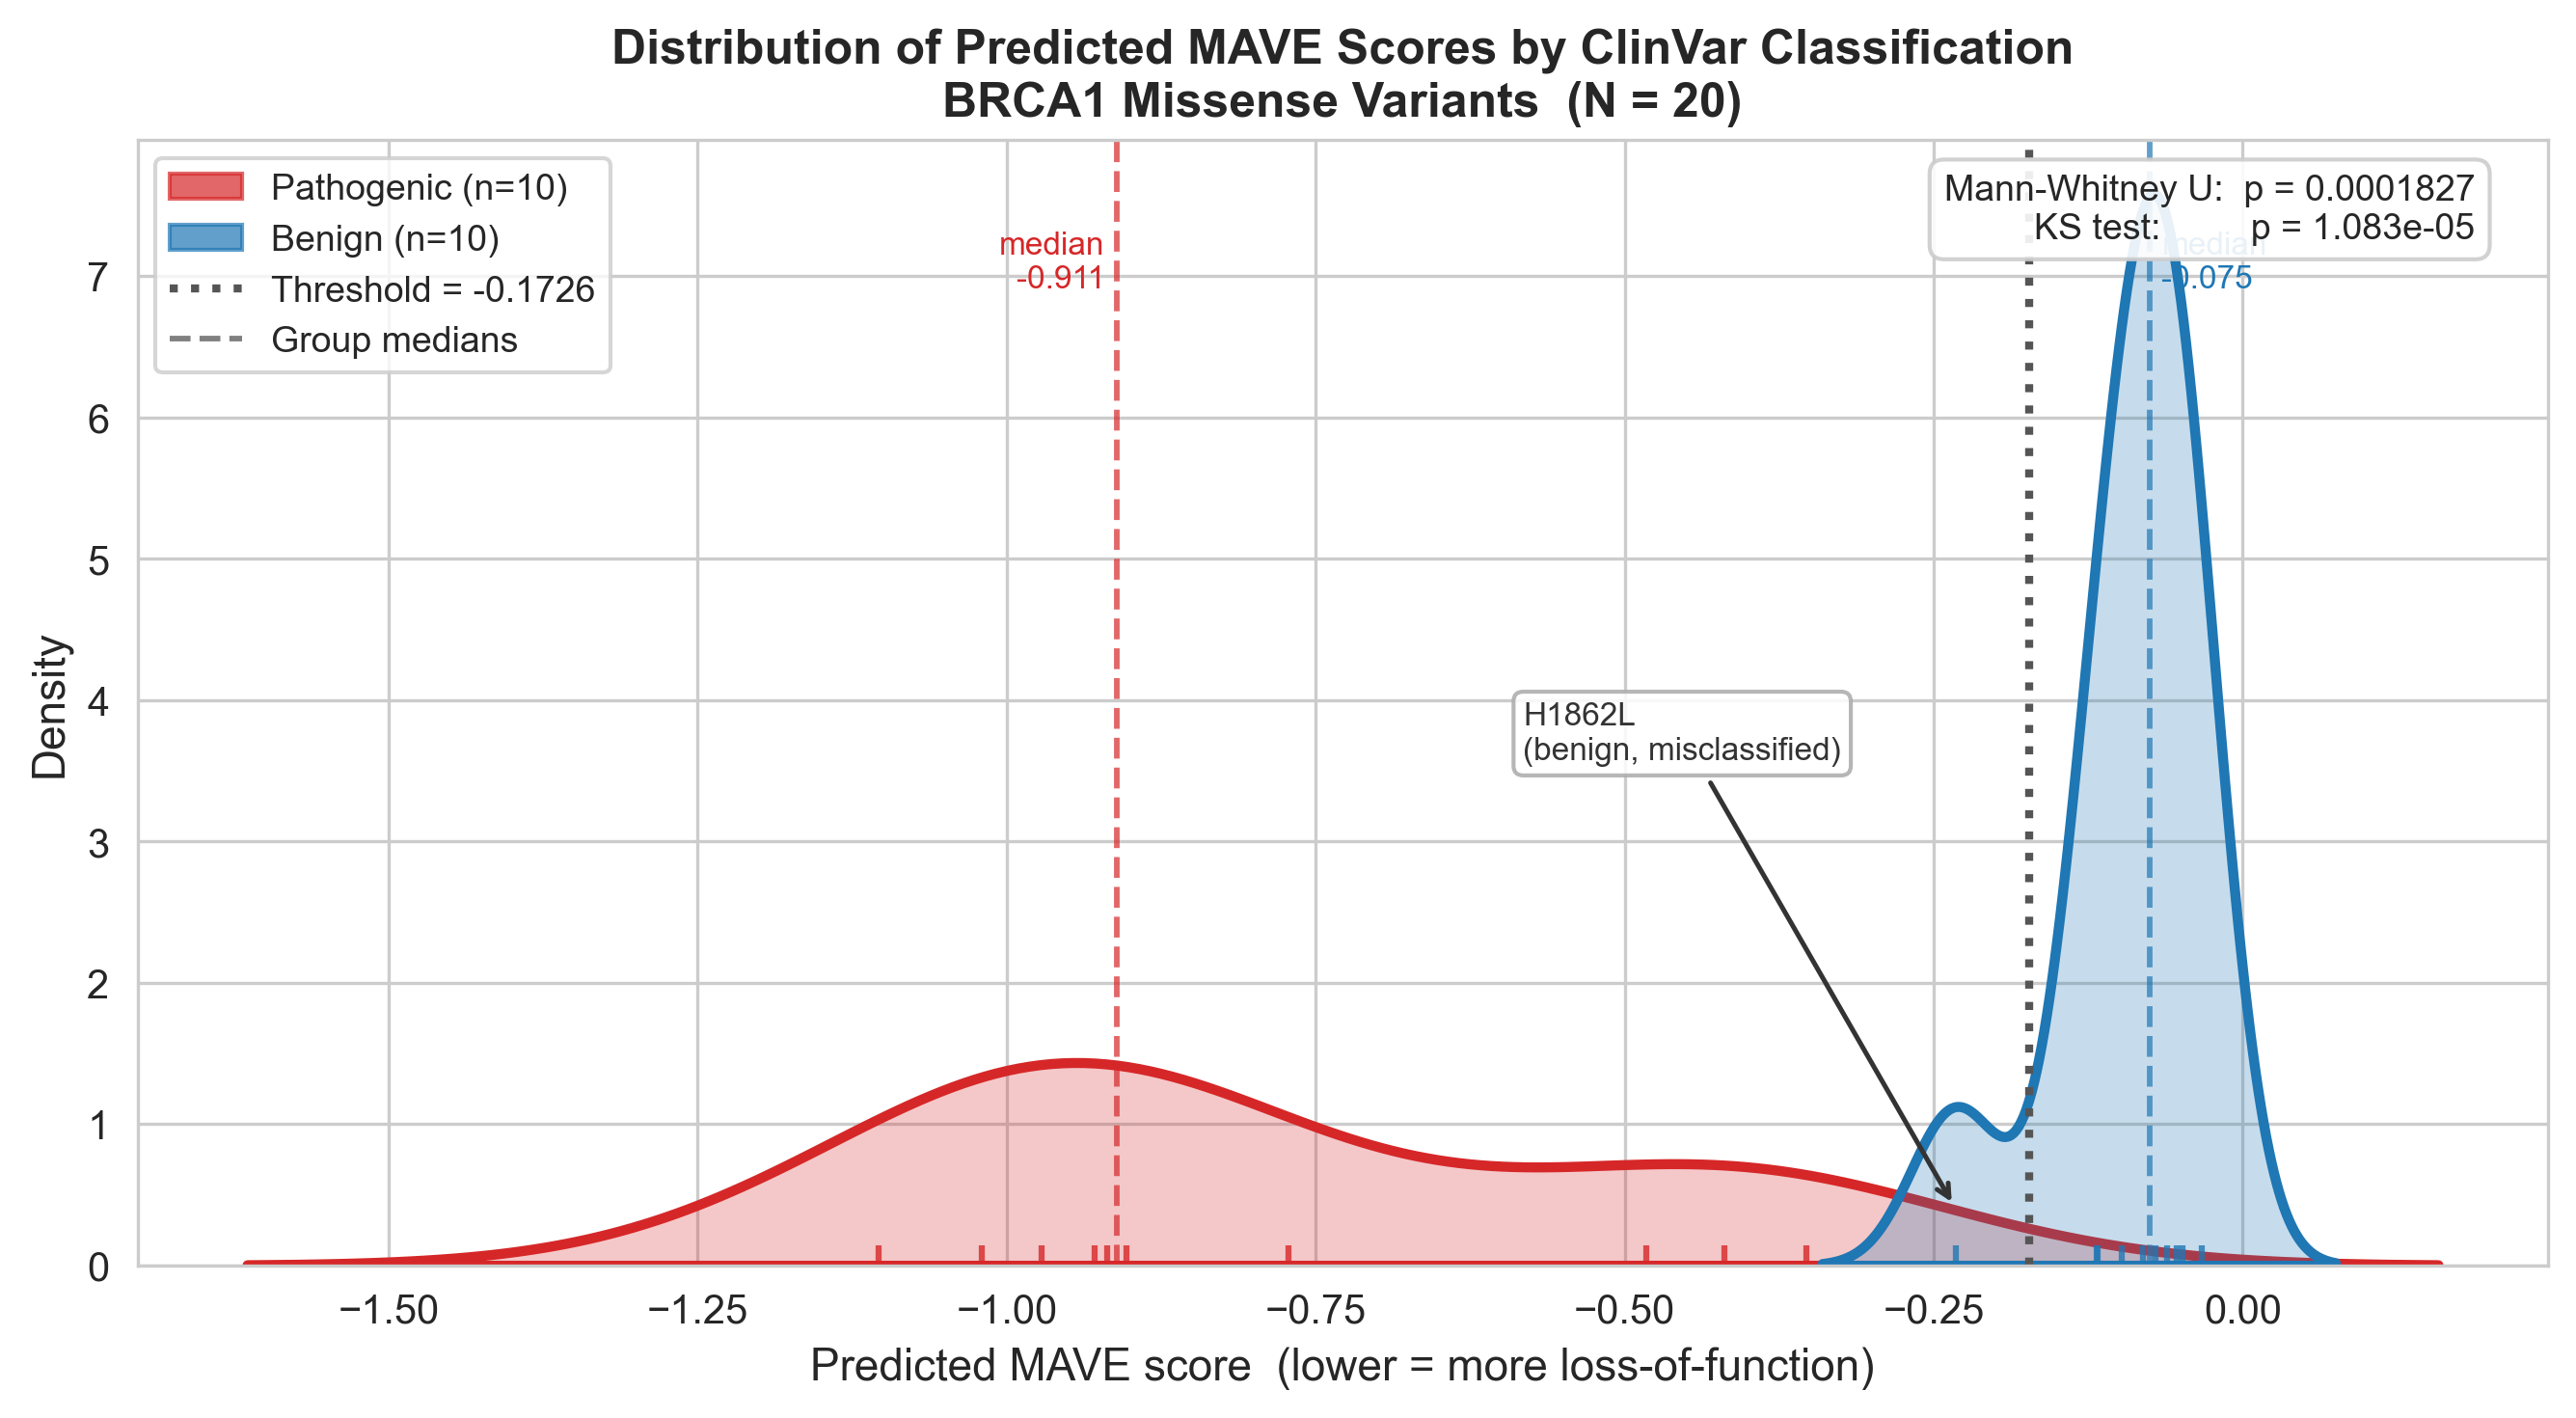
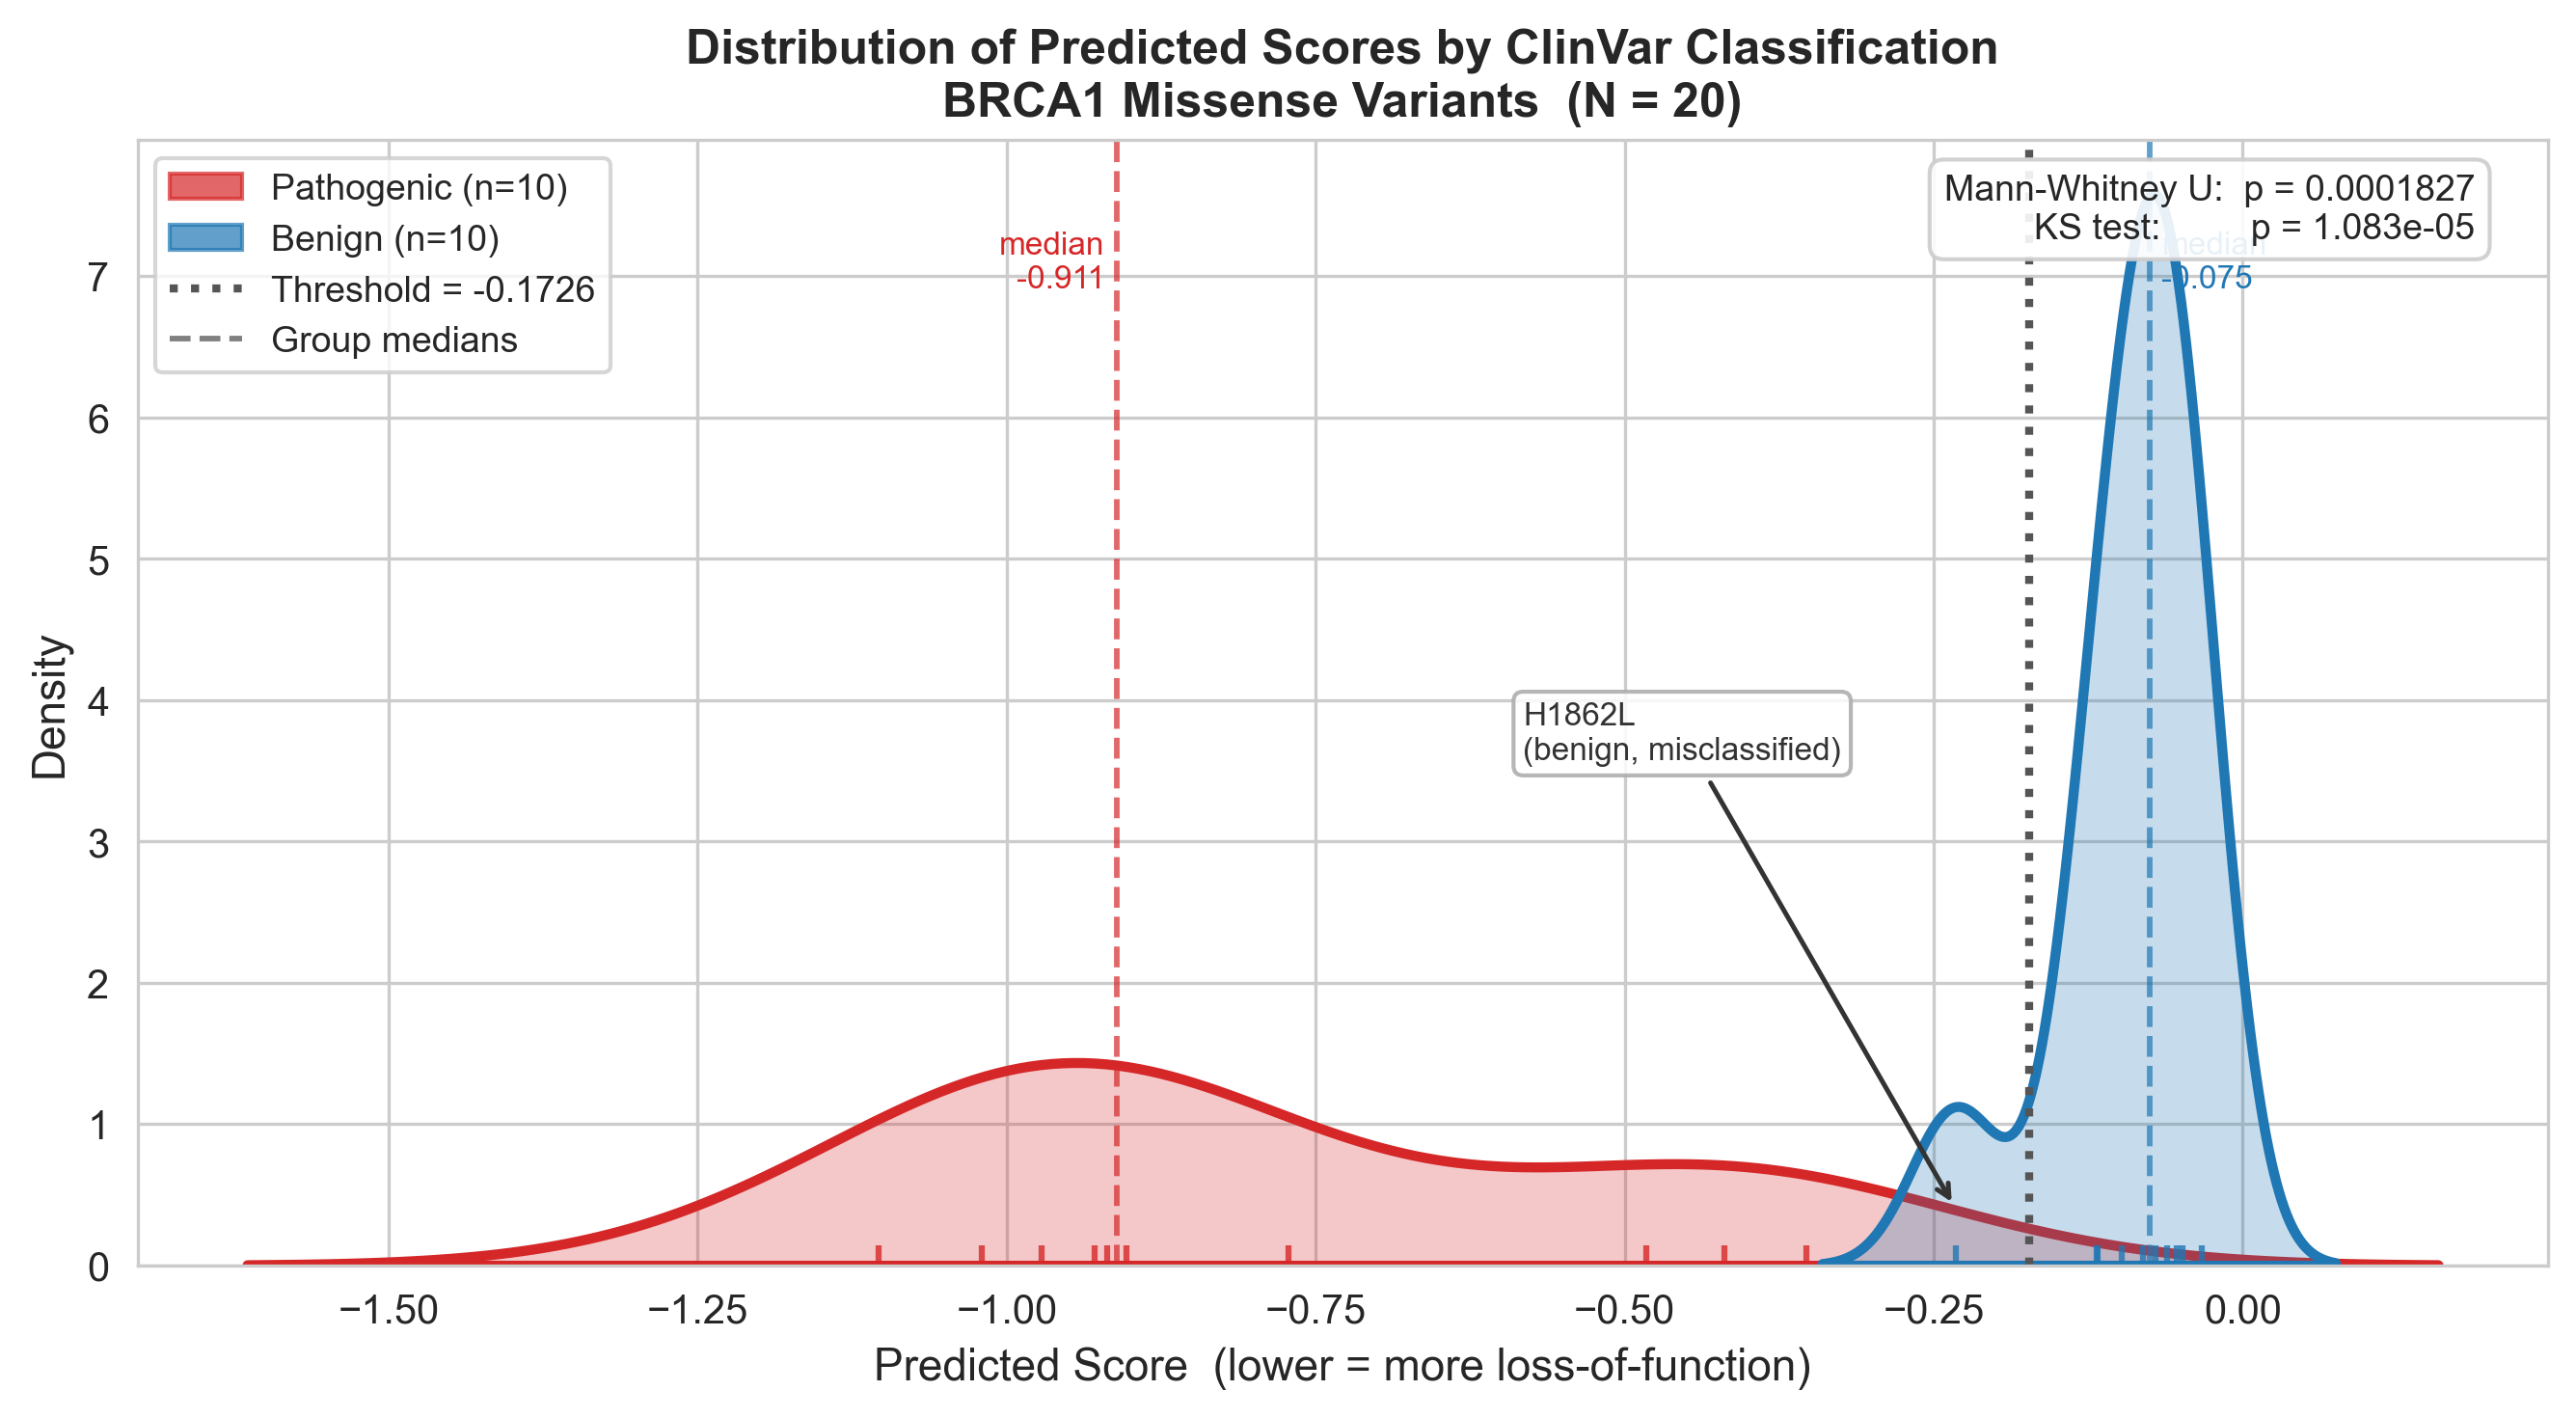
Aim 4: rename 'Predicted MAVE score' to 'Predicted Score' throughout
pred_score is derived from more than MAVE data, so calling it a 'MAVE
score' is inaccurate. Replace 'Predicted MAVE score' / 'Distribution of
Predicted MAVE Scores' (and related 'MAVE functional score' / 'MAVE
scores' wording) with 'Predicted Score' / 'predicted score' in plot
labels, titles, docstrings, the stats/metrics output, and the README.
Regenerate affected figures and result text files.

Changed region(s): [[0.2486, 0.0, 0.8079, 0.0612], [0.3107, 0.949, 0.7458, 0.9796]]

diff --git a/aim4/01_distribution_analysis.py b/aim4/01_distribution_analysis.py
@@ -1,7 +1,7 @@
 """
 Aim 4 — Validation  |  2.4a Distribution Analysis
 ===================================================
-Compares the distribution of predicted MAVE scores (pred_score) between
+Compares the distribution of predicted scores (pred_score) between
 ClinVar-labelled pathogenic and benign BRCA1 missense variants.
 
 Tests
@@ -106,9 +106,9 @@ print(f"Median pred_score — pathogenic: {path_med:.4f}  benign: {ben_med:.4f}"
 
 stats_path = OUT_DIR / "distribution_stats.txt"
 stats_text = textwrap.dedent(f"""
-    Aim 4 — Distribution Analysis of Predicted MAVE Scores
+    Aim 4 — Distribution Analysis of Predicted Scores
     =======================================================
-    Score used   : pred_score  (Random Forest predicted MAVE functional score;
+    Score used   : pred_score  (Random Forest predicted score;
                    lower = more loss-of-function = more pathogenic)
     Input file   : {DATA_CSV.relative_to(ROOT)}
     N total      : {n_total}
@@ -144,7 +144,7 @@ stats_text = textwrap.dedent(f"""
 
     Classification threshold (from Spencer's model)
     -------------------------------------------------
-    Threshold : {THRESHOLD}  (training-set median of MAVE scores)
+    Threshold : {THRESHOLD}  (training-set median of training scores)
     Variants with pred_score < threshold → classified as Pathogenic
 
     Misclassified variant
@@ -215,10 +215,10 @@ ax.text(0.97, 0.97, pval_text, transform=ax.transAxes,
         fontsize=9, va="top", ha="right",
         bbox=dict(boxstyle="round,pad=0.4", fc="white", ec="#cccccc", alpha=0.9))
 
-ax.set_xlabel("Predicted MAVE score  (lower = more loss-of-function)", fontsize=11)
+ax.set_xlabel("Predicted Score  (lower = more loss-of-function)", fontsize=11)
 ax.set_ylabel("Density", fontsize=11)
 ax.set_title(
-    "Distribution of Predicted MAVE Scores by ClinVar Classification\n"
+    "Distribution of Predicted Scores by ClinVar Classification\n"
     "BRCA1 Missense Variants  (N = 20)",
     fontsize=12, fontweight="bold"
 )

diff --git a/aim4/02_logistic_regression.py b/aim4/02_logistic_regression.py
@@ -177,7 +177,7 @@ metrics_text = textwrap.dedent(f"""
     Aim 4 — Logistic Regression Validation
     =======================================
     Input file     : {DATA_CSV.relative_to(ROOT)}
-    Score used     : pred_score  (Random Forest predicted MAVE functional score)
+    Score used     : pred_score  (Random Forest predicted score)
     Predictor (X)  : pred_score  (continuous; lower = more pathogenic)
     Outcome (y)    : ClinVar binary label  (1 = pathogenic, 0 = benign)
     N total        : {n_total}  ({n_path} pathogenic, {n_ben} benign)

diff --git a/aim4/README.md b/aim4/README.md
@@ -1,7 +1,7 @@
-# Aim 4 — External Validation of Predicted MAVE Scores
+# Aim 4 — External Validation of Predicted Scores
 
 This folder validates the **Aim 3** machine-learning predictions (`pred_score`, a
-Random Forest predicted MAVE functional score) against an **independent ClinVar
+Random Forest predicted score) against an **independent ClinVar
 ground truth** for BRCA1 missense variants. The question is simple: *do the
 predicted functional scores actually separate clinically pathogenic variants from
 benign ones?*
@@ -24,7 +24,7 @@ One row per variant. Columns used by these scripts:
 |-----------------|----------------------------------------------------------------|
 | `variant`       | Protein-level variant ID (e.g. `M1775R`)                       |
 | `clinvar_label` | Ground-truth class, normalised to `pathogenic` / `benign`      |
-| `pred_score`    | Aim 3 predicted MAVE score (lower = more pathogenic)           |
+| `pred_score`    | Aim 3 predicted score (lower = more pathogenic)           |
 
 > Both scripts assert that `clinvar_label` contains **only** `pathogenic` /
 > `benign` and abort otherwise — this guards against a silently mis-counted